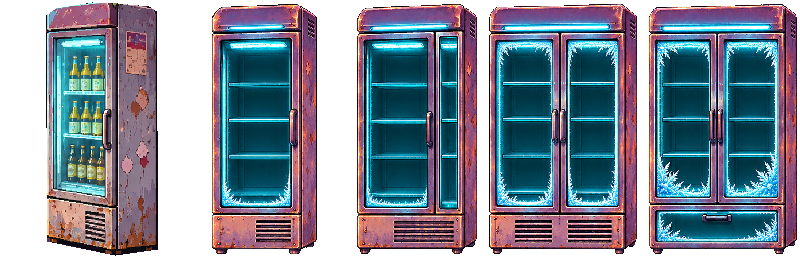
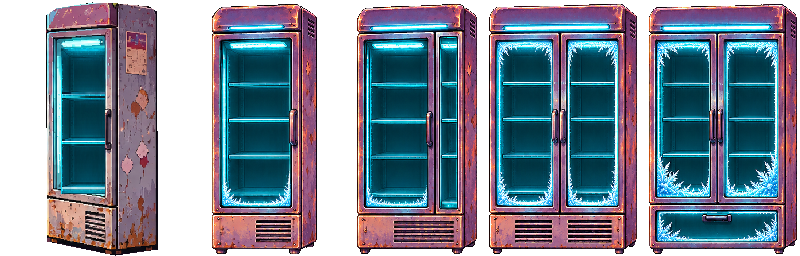
Show adaptive fridges from opening at every venue

Changed region(s): [[0.0625, 0.1875, 0.1562, 0.7812]]

diff --git a/tools/prepare_art.py b/tools/prepare_art.py
@@ -9,7 +9,8 @@ ROOT = Path(__file__).resolve().parents[1]
 SRC, OUT = ROOT/'art/sources', ROOT/'assets/art'
 OUT.mkdir(parents=True, exist_ok=True)
 NEAREST = Image.Resampling.NEAREST
-required=[f'{kind}-{stage}' for kind in ['beer','soi','gogo'] for stage in range(1,4)]
+room_plates=[f'{kind}-{stage}' for kind in ['beer','soi','gogo'] for stage in range(1,4)]
+required=room_plates.copy()
 required+=['district','toybox','counter','event-inspection','icon','anong-walk-reference','core-cast-reference','support-cast-reference']
 missing_plates=[name for name in required if not (SRC/(name+'.png')).exists()]
 if missing_plates and '--partial' not in sys.argv:
@@ -186,7 +187,7 @@ for item in fan_recipe['assets']:
         canvas.alpha_composite(im,((canvas.width-im.width)//2,0))
         im=canvas
     im.save(OUT/(item['id']+'.png'))
-# The Blue Hour cabinet keeps its footprint through room renovations.
+# Refit the cabinet tiers in every room, patching each old silhouette.
 fridge_recipe=json.loads((ROOT/'art/recipes/blue-hour-fridges.json').read_text())
 fridges=Image.open(SRC/'blue-hour-fridge-upgrades.png').convert('RGBA')
 fridges.putalpha(fridges.getchannel('A').point(lambda a: 0 if a<190 else 255))
@@ -196,24 +197,28 @@ cabinet_atlas=Image.new('RGBA',(cell[0]*5,cell[1]))
 starter=Image.open(OUT/'beer-1.png').convert('RGBA').crop((*origin,origin[0]+cell[0],origin[1]+cell[1]))
 mask=Image.new('L',cell)
 ImageDraw.Draw(mask).polygon([tuple(point) for point in fridge_recipe['starter_mask']],fill=255)
-starter.putalpha(mask)
-cabinet_atlas.alpha_composite(starter)
 for i, width in enumerate(fridge_recipe['upgrade_widths']):
     x, y = i%2, i//2
     sprite=fridges.crop((x*fridges.width//2,y*fridges.height//2,(x+1)*fridges.width//2,(y+1)*fridges.height//2))
     sprite=sprite.crop(sprite.getbbox()).resize((width,250),NEAREST)
     cabinet_atlas.alpha_composite(sprite,((i+2)*cell[0]-3-width,4))
+left, top, right, bottom = fridge_recipe['starter_glass']
+glass = cabinet_atlas.crop(tuple(fridge_recipe['clean_glass']))
+starter.paste(glass.resize((right-left,bottom-top),NEAREST),(left,top))
+starter.putalpha(mask)
+cabinet_atlas.alpha_composite(starter)
 cabinet_atlas.save(OUT/'blue-hour-fridges.png')
 wall=Image.open(SRC/'blue-hour-fridge-wall.png').convert('RGBA')
 wall=wall.crop(tuple(fridge_recipe['wall_crop'])).resize((119,340),NEAREST).crop((0,50,119,306))
-wall_atlas=Image.new('RGBA',(cell[0]*2,cell[1]))
-for i, outline in enumerate(fridge_recipe['wall_masks']):
+wall_atlas=Image.new('RGBA',(cell[0]*3,cell[1]*3))
+for i, plate in enumerate(room_plates):
+    outline=fridge_recipe['wall_masks'][plate]
     patch=Image.new('RGBA',cell)
-    patch.alpha_composite(wall,(41,0))
+    patch.alpha_composite(wall,(40,0))
     mask=Image.new('L',cell)
     ImageDraw.Draw(mask).polygon([tuple(point) for point in outline],fill=255)
     patch.putalpha(mask.filter(ImageFilter.GaussianBlur(.6)))
-    wall_atlas.alpha_composite(patch,(i*cell[0],0))
+    wall_atlas.alpha_composite(patch,((i%3)*cell[0],(i//3)*cell[1]))
 wall_atlas.save(OUT/'blue-hour-fridge-walls.png')
 # Mini-game sprites use cell-centred footprints and wheel baselines.
 for sheet, cols, rows, cell in [

diff --git a/docs/TESTING.md b/docs/TESTING.md
@@ -68,14 +68,15 @@ them and repeating the loop. The `sunglasses-*` previews show each pose in the
 Blue Hour at 960 × 540 and 1280 × 720. The nine original atlas cells and the
 animated guest's lower body were checked for pixel-for-pixel alignment.
 
-## Blue Hour fridge art
+## Adaptive fridge art
 
-The art checks compare consecutive fridge variants at each renovation stage.
-The UI check uses the four paid upgrade buttons, verifies the room reveal and
-thumbnail, then reloads the saved cabinet without replaying the cold puff.
-The `blue-hour-fridge-*` economy previews cover all tiers, a renovated room
-with the starter cabinet, and stocked and empty versions of the final tier.
-The previews were inspected at 960×540 and 1280×720.
+The art checks compare the starter and consecutive fridge upgrades at all
+three renovation stages for each venue type. The UI check buys each allowed
+tier in Blue Hour, a second beer bar, a hostess bar and a gogo. It checks the
+room reveal, the thumbnail, the extra stock room and the saved cabinet on
+reload. The `venue-fridge-*` economy previews show empty and full starter
+and tier-two cabinets in all nine rooms. The `blue-hour-fridge-*` previews
+also cover intermediate beer-bar tiers and the cold drawer.
 
 ## Demand-aware action refills — 27 November 2026
 

diff --git a/art/README.md b/art/README.md
@@ -208,13 +208,14 @@ economy views, plus wider-window pool/layout checks. Linux export and its isolat
 headless smoke test pass; the integrated Android debug APK exports and verifies.
 Android device, Windows and macOS execution were not tested in this integration.
 
-## Equipment ownership: Blue Hour fridge
+## Equipment ownership: adaptive fridges
 
-The Blue Hour room and property thumbnail use the saved fridge tier. The
-four fitted cabinets add a shelf, a side bay, twin doors and a cold drawer.
-The live room fills the upgraded shelves from actual inventory and gives the
-final purchase a brief burst of frost. The generated cabinets and wall patch
-are packed by `tools/prepare_art.py` using the [fridge recipe](recipes/blue-hour-fridges.json).
+Every room and property thumbnail uses the saved fridge tier. The live room
+draws bottles from the venue's actual stock, including the starter cabinet.
+The fitted upgrades add a shelf, a side bay, twin doors and a cold drawer,
+with a brief burst of frost on the final purchase. The cabinet atlas and
+wall patches for the nine room plates are packed by `tools/prepare_art.py`
+using the [fridge recipe](recipes/blue-hour-fridges.json).
 
 ## Equipment ownership: wall fans
 

diff --git a/docs/PLAYER_GUIDE.md b/docs/PLAYER_GUIDE.md
@@ -720,9 +720,10 @@ per ten satisfied visits at that bar. With no upgrade that milestone earns +1;
 with fridge levels one/two it earns +2/+3, up to 100 reputation. Buying the fridge
 alone grants no reputation. Existing fridges benefit from future happy visits.
 
-Buying a fridge upgrade at the Blue Hour reveals it in the room. The four tiers
-add a shelf, a side compartment, twin doors and a cold drawer, with more frost
-at each step. The bottles in the upgraded cabinet show roughly how full it is.
+Every venue starts with a cabinet whose bottles show roughly how full it is.
+Buying a fridge upgrade reveals the new cabinet in the room. Beer bars can add
+a shelf, a side compartment, twin doors and a cold drawer. Hostess bars and
+gogos have the first two upgrades.
 
 Supplier levels 0/1 buy six drinks for ฿228. Levels 2/3/4/5 buy twelve for
 ฿432/408/384/360. The button shows the current quantity and total bill. Eleven empty

diff --git a/README.md b/README.md
@@ -81,8 +81,9 @@ Stock starts in **six-drink packs for ฿228**. Supplier level 2 switches both m
 and automatic deliveries to **twelve drinks for ฿432** (฿36 each). Levels 3–5
 keep twelve-drink deliveries and lower the bill to ฿408/384/360. Every purchase
 needs room and cash for the whole delivery; the button explains any shortfall.
-At the Blue Hour, each fridge upgrade visibly adds storage and frost. Each fridge
-tier adds +1 reputation per ten satisfied visits, on top of the base +1.
+Every venue starts with a cabinet that shows how full its fridge is. Fridge
+upgrades change the cabinet in the room and add +1 reputation per ten satisfied
+visits per tier, on top of the base +1.
 Stage-1 beer bars can buy a third seating level, **Compact layout
 for ฿1,200**, reaching twelve customers even with pool and fans installed.
 

diff --git a/docs/ECONOMY.md b/docs/ECONOMY.md
@@ -399,6 +399,8 @@ unchanged; eleven spare spaces cannot accept a twelve-drink delivery. Each fridg
 tier also adds +1 to the base +1 reputation earned per ten satisfied departures
 at that venue, capped at 100 street reputation. Purchases grant no immediate
 reputation; already-owned fridges benefit on future milestones.
+The cabinet display uses the venue's current stock divided by its capacity,
+including at the starter tier.
 
 Nida costs ฿1,200 for ten game days, with no drink commission or hourly wage. One frontage slot is separate from seats and floor staffing. While
 contracted/on duty, her attraction weight is +4.8; the model uses the greater of
